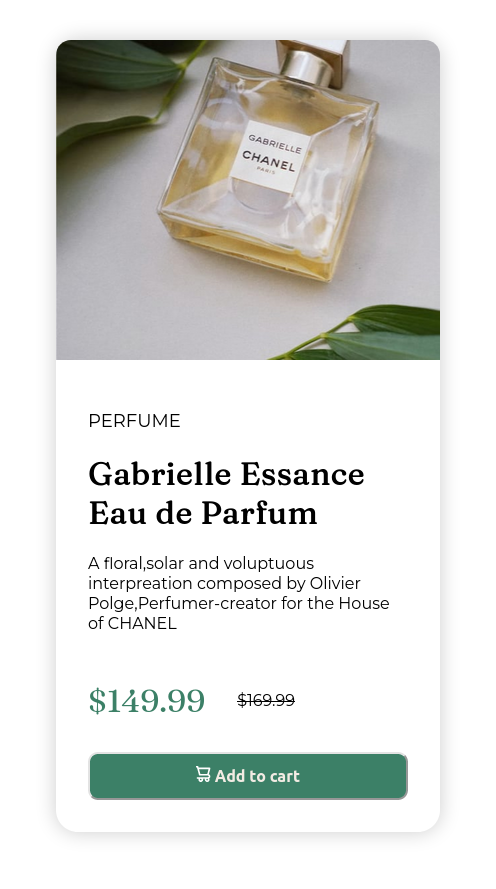
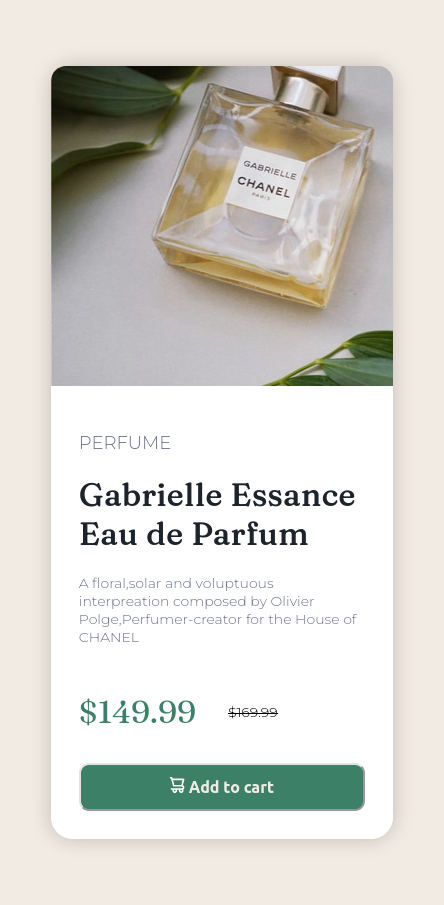
style: update style

diff --git a/style/scss/main.scss b/style/scss/main.scss
@@ -1,18 +1,22 @@
-@import url('https://fonts.googleapis.com/css2?family=Montserrat&display=swap');
+@import url('https://fonts.googleapis.com/css2?family=Montserrat:wght@300&display=swap');
 @import url('https://fonts.googleapis.com/css2?family=Fraunces&display=swap');
+
 $primary-color: hsl(30, 38%, 92%);
 $secondary-color: hsl(158, 36%, 37%);
+
 body {
-  background-color: hsl(0, 0%, 100%);
+  background-color: $primary-color;
   font-family: 'Montserrat', sans-serif;
   min-height: 100vh;
   display: flex;
   align-items: center;
   justify-content: center;
+  font-size: 14px;
 }
 .preview-card {
   box-shadow: 0 0 20px rgba(0, 0, 0, 0.2);
   border-radius: 22px;
+  background-color: hsl(0, 0%, 100%);
   width: 80%;
   max-width: 600px;
   display: flex;
@@ -25,14 +29,18 @@ body {
   }
   &__main {
     padding: 2em;
-    font-size: 14px;
   }
   &__title {
     font-size: large;
     text-transform: uppercase;
   }
+  &__title,
+  &__paragraph {
+    color: hsl(228, 12%, 48%);
+  }
   h1 {
     font-family: 'Fraunces', sans-serif;
+    color: hsl(212, 21%, 14%);
     font-size: 2rem;
   }
   &__price {
@@ -58,6 +66,7 @@ body {
     font-size: 1rem;
     background-color: $secondary-color;
     border-radius: 10px;
+    cursor: pointer;
   }
   button:hover {
     background-color: hsl(157, 37%, 22%);

diff --git a/style/css/style.css b/style/css/style.css
@@ -1,17 +1,19 @@
-@import url("https://fonts.googleapis.com/css2?family=Montserrat&display=swap");
+@import url("https://fonts.googleapis.com/css2?family=Montserrat:wght@300&display=swap");
 @import url("https://fonts.googleapis.com/css2?family=Fraunces&display=swap");
 body {
-  background-color: hsl(0deg, 0%, 100%);
+  background-color: hsl(30deg, 38%, 92%);
   font-family: "Montserrat", sans-serif;
   min-height: 100vh;
   display: flex;
   align-items: center;
   justify-content: center;
+  font-size: 14px;
 }
 
 .preview-card {
   box-shadow: 0 0 20px rgba(0, 0, 0, 0.2);
   border-radius: 22px;
+  background-color: hsl(0deg, 0%, 100%);
   width: 80%;
   max-width: 600px;
   display: flex;
@@ -25,14 +27,17 @@ body {
 }
 .preview-card__main {
   padding: 2em;
-  font-size: 14px;
 }
 .preview-card__title {
   font-size: large;
   text-transform: uppercase;
 }
+.preview-card__title, .preview-card__paragraph {
+  color: hsl(228deg, 12%, 48%);
+}
 .preview-card h1 {
   font-family: "Fraunces", sans-serif;
+  color: hsl(212deg, 21%, 14%);
   font-size: 2rem;
 }
 .preview-card__price {
@@ -58,6 +63,7 @@ body {
   font-size: 1rem;
   background-color: hsl(158deg, 36%, 37%);
   border-radius: 10px;
+  cursor: pointer;
 }
 .preview-card button:hover {
   background-color: hsl(157deg, 37%, 22%);
